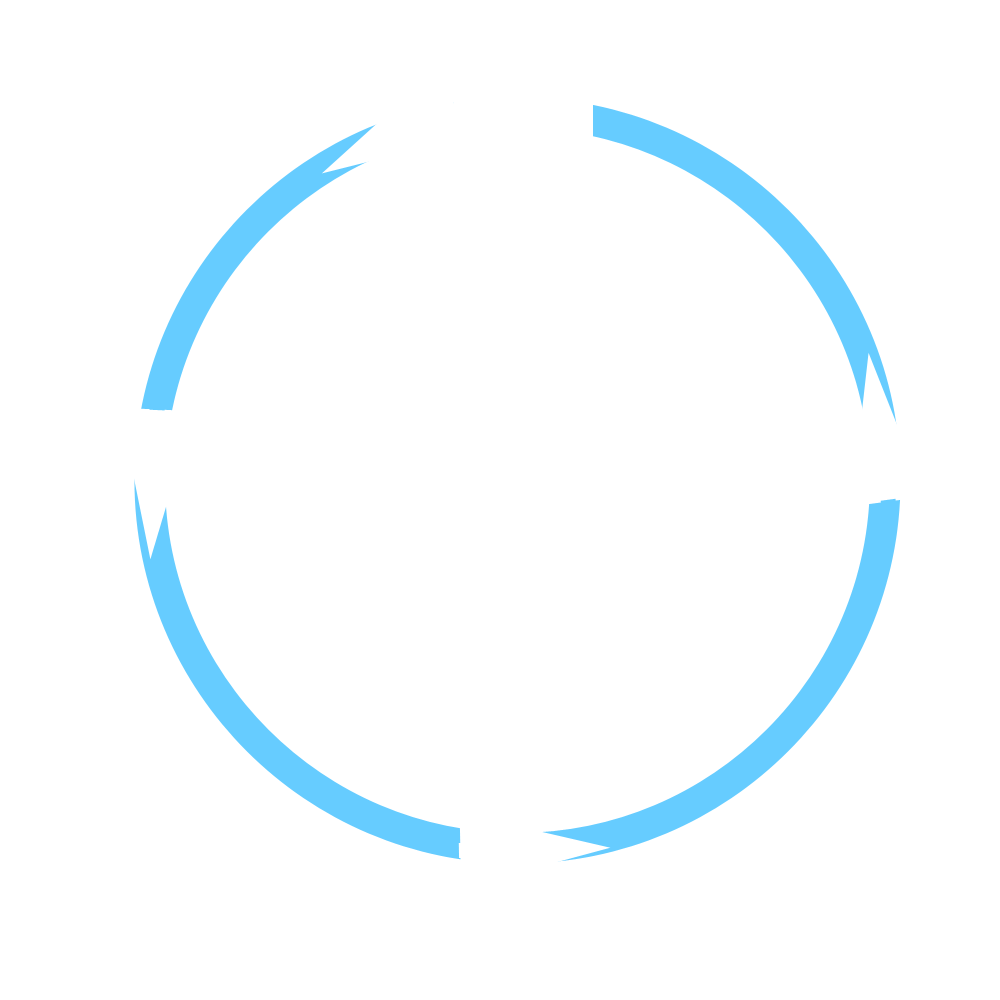
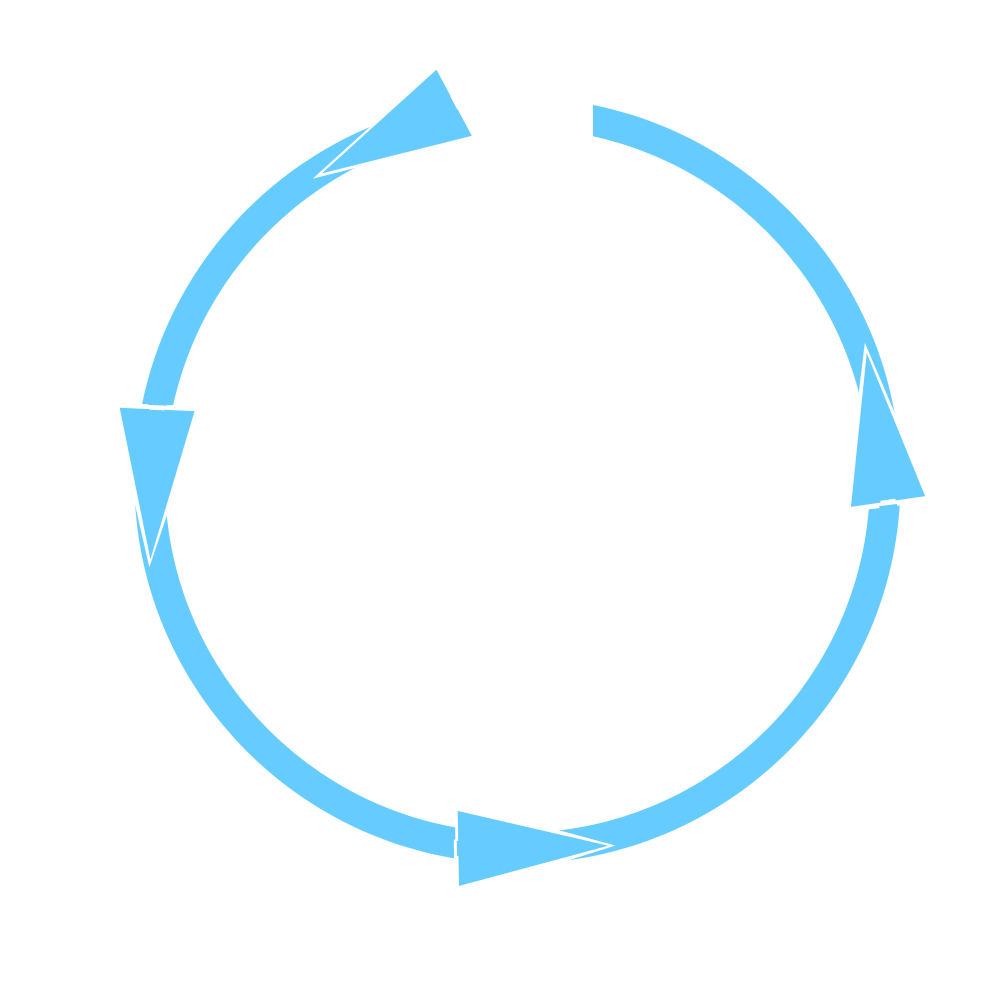
Changed some screenshots and adde leaderboards
- Added BkgnSlytherinUserLarge,
- Created and made leaderboards, including it's bloc.
- Fixed a bug when the user had no friends couldn't add one.
- Changed some spells drawings to be blue with a little white in the arrows.

diff --git a/lib/leaderboard/leaderboard.dart b/lib/leaderboard/leaderboard.dart
@@ -1,0 +1,125 @@
+import 'package:flutter/material.dart';
+import 'package:flutter_animation_progress_bar/flutter_animation_progress_bar.dart';
+import 'package:proyectoMoviles/leaderboard/bloc/leaderboard_bloc.dart';
+import 'package:proyectoMoviles/utils/constants.dart';
+
+class Leaderboard extends StatelessWidget {
+  const Leaderboard({Key key}) : super(key: key);
+  @override
+  Widget build(BuildContext context) {
+    return Scaffold(
+      backgroundColor: Colors.indigo[700],
+      appBar: AppBar(
+        title: Text("Leaderboards"),
+      ),
+      body: FutureBuilder(
+        future: LeaderboardBloc().getHouse(),
+        builder: (context, state) {
+          if (state.hasData) {
+            return theBody(state.data);
+          }
+          return Center(child: CircularProgressIndicator());
+        },
+      ),
+    );
+  }
+
+  Container theBody(list) {
+    return Container(
+      decoration: BoxDecoration(
+        image: DecorationImage(
+          image: AssetImage('assets/BkgnVs.jpg'),
+          fit: BoxFit.cover,
+        ),
+      ),
+      child: Container(
+        child: Column(
+          mainAxisAlignment: MainAxisAlignment.spaceEvenly,
+          children: [
+            Row(
+              mainAxisAlignment: MainAxisAlignment.spaceBetween,
+              children: [
+                Column(
+                  //mainAxisAlignment: MainAxisAlignment.start,
+                  children: [
+                    getBar(list[0], list[4], GRYFFINDOR_COLOR),
+                    //Si el valor es menor a 100 entonces +10, de lo contrario mas +100
+                    //while N % m (inicial 10) sea == 0
+                    //  m*10
+                    //m/10 = valorMaximo
+                    putText("Gryffindor"),
+                  ],
+                ),
+                Column(
+                  //mainAxisAlignment: MainAxisAlignment.start,
+                  children: [
+                    getBar(list[1], list[4], HUFFLEPUFF_COLOR),
+                    putText("Hufflepuff"),
+                  ],
+                ),
+                Column(
+                  //mainAxisAlignment: MainAxisAlignment.start,
+                  children: [
+                    getBar(list[2], list[4], RAVENCLAW_COLOR),
+                    putText("Ravenclaw"),
+                  ],
+                ),
+                Column(
+                  //mainAxisAlignment: MainAxisAlignment.end,
+                  children: [
+                    getBar(list[3], list[4], SLYTHERIN_COLOR),
+                    putText("Slytherin"),
+                  ],
+                ),
+              ],
+            ),
+            Text(
+              "Casa ganadora al momento: ${list[5]}",
+              textAlign: TextAlign.center,
+              style: TextStyle(
+                fontSize: 30,
+                color: Colors.white,
+              ),
+            ),
+            Image(
+              image: AssetImage('assets/Bkgn${list[5]}UserLarge.jpg'),
+              height: 325,
+              fit: BoxFit.cover,
+            ),
+          ],
+        ),
+      ),
+    );
+  }
+
+  Text putText(String s) {
+    return Text(
+      s,
+      textAlign: TextAlign.center,
+      style: TextStyle(
+        fontSize: 15,
+        color: Colors.white,
+      ),
+    );
+  }
+
+  Container getBar(int value, int maxValue, Color color) {
+    return Container(
+      height: 250,
+      width: 25,
+      child: Align(
+        alignment: Alignment.centerLeft,
+        child: FAProgressBar(
+          size: 100,
+          maxValue: maxValue,
+          currentValue: value,
+          displayText: '',
+          animatedDuration: Duration(milliseconds: 1500),
+          progressColor: color,
+          verticalDirection: VerticalDirection.up,
+          direction: Axis.vertical,
+        ),
+      ),
+    );
+  }
+}

diff --git a/lib/searchFriends/bloc/search_bloc.dart b/lib/searchFriends/bloc/search_bloc.dart
@@ -3,6 +3,7 @@ import 'dart:async';
 import 'package:bloc/bloc.dart';
 import 'package:cloud_firestore/cloud_firestore.dart';
 import 'package:equatable/equatable.dart';
+import 'package:firebase_storage/firebase_storage.dart';
 import 'package:proyectoMoviles/utils/item_friends.dart';
 
 part 'search_event.dart';
@@ -18,6 +19,16 @@ class uniqueUser {
     this.name,
     this.id,
     this.amigos,
+  });
+}
+
+class uniqueUserNoFriends {
+  String name;
+  String id;
+
+  uniqueUserNoFriends({
+    this.name,
+    this.id,
   });
 }
 
@@ -130,23 +141,41 @@ class SearchBloc extends Bloc<SearchEvent, SearchState> {
           .where("image", isEqualTo: user['image'])
           .where("email", isEqualTo: user['email'])
           .get();
-      var list = unique.docs
-          .map(
-            (element) => uniqueUser(
-              name: element["name"],
-              id: element.id,
-              amigos: element["amigos"],
-            ),
-          )
-          .toList();
       DocumentReference toPass = await _cFirestore.collection('users').doc(id);
-      if (list[0].amigos.contains(toPass)) return true;
-      list[0].amigos.add(toPass);
-      var unique2 = await _cFirestore
-          .collection('users')
-          .doc(list[0].id)
-          .update({'amigos': list[0].amigos});
-      return true;
+      if (unique.docs.contains("amigos")) {
+        var list = unique.docs
+            .map(
+              (element) => uniqueUser(
+                name: element["name"],
+                id: element.id,
+                amigos: element["amigos"] != null ? element["amigos"] : null,
+              ),
+            )
+            .toList();
+
+        if (list[0].amigos.contains(toPass)) return true;
+        list[0].amigos.add(toPass);
+        var unique2 = await _cFirestore
+            .collection('users')
+            .doc(list[0].id)
+            .update({'amigos': list[0].amigos});
+      } else {
+        var list = unique.docs
+            .map(
+              (element) => uniqueUserNoFriends(
+                name: element["name"],
+                id: element.id,
+              ),
+            )
+            .toList();
+        List<DocumentReference> list2 = [];
+        list2.add(toPass);
+        var unique2 = await _cFirestore
+            .collection('users')
+            .doc(list[0].id)
+            .update({'amigos': list2});
+        return true;
+      }
     } catch (e) {
       print("Error: $e");
       return false;
@@ -164,7 +193,6 @@ class SearchBloc extends Bloc<SearchEvent, SearchState> {
                 24,
                 (amigosArray[i].toString().length - 1),
               );
-          print(temp);
           DocumentSnapshot element =
               await _cFirestore.collection('users').doc(temp).get();
           friendsList.add(

diff --git a/lib/searchFriends/itemFriends.dart b/lib/searchFriends/itemFriends.dart
@@ -73,10 +73,48 @@ class _itemFriendsState extends State<ItemsFriends> {
                           ? ico2
                           : ico3),
                   onPressed: () async {
-                    if (ban == 0) {
-                      SearchBloc().addUser(widget.friend.id, widget.user);
+                    if (ban == 1) {
+                      bool ban1 = await SearchBloc()
+                          .addUser(widget.friend.id, widget.user);
+                      if (ban1) {
+                        ScaffoldMessenger.of(context)
+                          ..hideCurrentSnackBar()
+                          ..showSnackBar(
+                            SnackBar(
+                              content: Text("Amigo agregado"),
+                            ),
+                          );
+                      } else {
+                        ScaffoldMessenger.of(context)
+                          ..hideCurrentSnackBar()
+                          ..showSnackBar(
+                            SnackBar(
+                              content:
+                                  Text("Surgio un error intentelo mas tarde"),
+                            ),
+                          );
+                      }
                     } else if (ban == 2) {
-                      SearchBloc().deleteUser(widget.friend.id, widget.user);
+                      bool ban1 = await SearchBloc()
+                          .deleteUser(widget.friend.id, widget.user);
+                      if (ban1) {
+                        ScaffoldMessenger.of(context)
+                          ..hideCurrentSnackBar()
+                          ..showSnackBar(
+                            SnackBar(
+                              content: Text("Amigo removido"),
+                            ),
+                          );
+                      } else {
+                        ScaffoldMessenger.of(context)
+                          ..hideCurrentSnackBar()
+                          ..showSnackBar(
+                            SnackBar(
+                              content:
+                                  Text("Surgio un error intentelo mas tarde"),
+                            ),
+                          );
+                      }
                     }
                   })
             ],

diff --git a/lib/leaderboard/bloc/leaderboard_bloc.dart b/lib/leaderboard/bloc/leaderboard_bloc.dart
@@ -1,0 +1,56 @@
+import 'dart:async';
+
+import 'package:bloc/bloc.dart';
+import 'package:cloud_firestore/cloud_firestore.dart';
+import 'package:equatable/equatable.dart';
+
+part 'leaderboard_event.dart';
+part 'leaderboard_state.dart';
+
+class LeaderboardBloc extends Bloc<LeaderboardEvent, LeaderboardState> {
+  LeaderboardBloc() : super(LeaderboardInitial());
+  final _cFirestore = FirebaseFirestore.instance;
+
+  @override
+  Stream<LeaderboardState> mapEventToState(
+    LeaderboardEvent event,
+  ) async* {
+    // TODO: implement mapEventToState
+  }
+
+  Future<List> getHouse() async {
+    try {
+      List leaderboardsTempList = [];
+      List leaderboardsList = [];
+      int i;
+      var house = ['Gryffindor', "Hufflepuff", "Ravenclaw", "Slytherin"];
+      int highest = 0;
+      var highestHouse;
+      var leaderboards = await _cFirestore.collection('casas').get();
+      leaderboards.docs.map((e) => leaderboardsTempList.add(e)).toList();
+      for (i = 0; i < 4; i++) {
+        var temp = house[i].toString().substring(0, 1);
+        leaderboardsList.add(leaderboardsTempList[0][temp]);
+        if (highest < leaderboardsTempList[0][temp]) {
+          highest = leaderboardsTempList[0][temp];
+          highestHouse = house[i];
+        }
+      }
+
+      if (highest < 100) {
+        highest += 10;
+      } else if (highest < 1000) {
+        highest += 100;
+      } else {
+        highest += 1000;
+      }
+      leaderboardsList.add(highest);
+      leaderboardsList.add(highestHouse);
+
+      return leaderboardsList;
+    } catch (e) {
+      print("Error: $e");
+      return [];
+    }
+  }
+}

diff --git a/lib/home/pantalla_principal.dart b/lib/home/pantalla_principal.dart
@@ -1,6 +1,7 @@
 import 'package:cloud_firestore/cloud_firestore.dart';
 import 'package:flutter/material.dart';
 import 'package:proyectoMoviles/Versus/versus.dart';
+import 'package:proyectoMoviles/leaderboard/leaderboard.dart';
 import 'package:proyectoMoviles/others/leaderboard_page.dart';
 import 'package:proyectoMoviles/home/profile.dart';
 import 'package:proyectoMoviles/others/friends_page.dart';
@@ -322,8 +323,7 @@ class _PantallaPrincipalState extends State<PantallaPrincipal> {
     Navigator.of(context).push(
       MaterialPageRoute(
         builder: (context) {
-          return LeaderboardPage(
-              leaderboardList: LeaderboardRepository.loadLeaderboard());
+          return Leaderboard();
         },
       ),
     );

diff --git a/lib/leaderboard/bloc/leaderboard_state.dart b/lib/leaderboard/bloc/leaderboard_state.dart
@@ -1,0 +1,10 @@
+part of 'leaderboard_bloc.dart';
+
+abstract class LeaderboardState extends Equatable {
+  const LeaderboardState();
+  
+  @override
+  List<Object> get props => [];
+}
+
+class LeaderboardInitial extends LeaderboardState {}

diff --git a/lib/leaderboard/bloc/leaderboard_event.dart b/lib/leaderboard/bloc/leaderboard_event.dart
@@ -1,0 +1,8 @@
+part of 'leaderboard_bloc.dart';
+
+abstract class LeaderboardEvent extends Equatable {
+  const LeaderboardEvent();
+
+  @override
+  List<Object> get props => [];
+}
